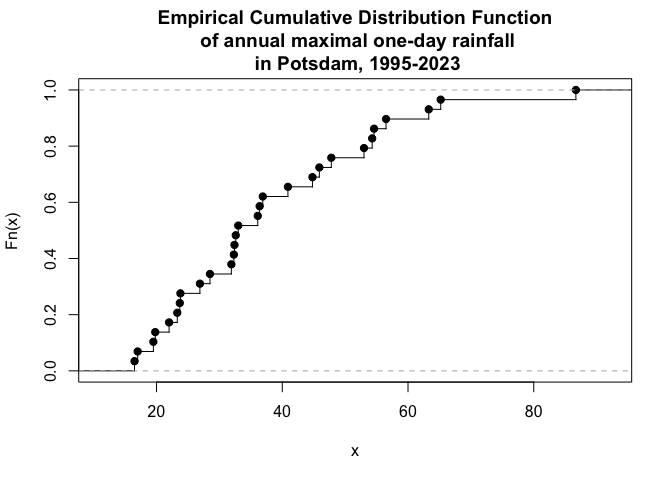
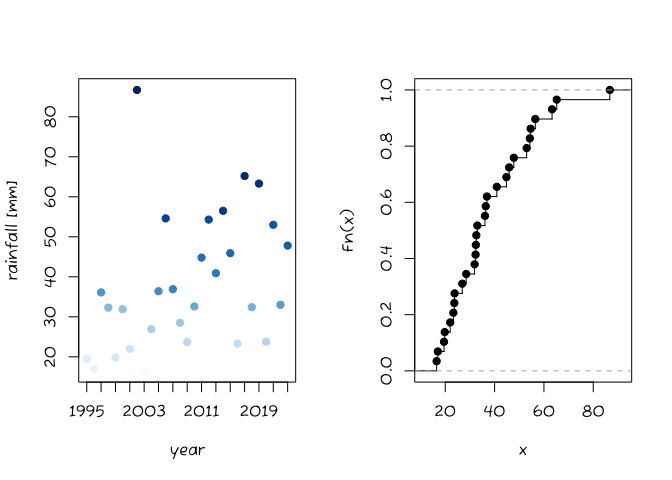
# minor changes again

diff --git a/README.md b/README.md
@@ -13,12 +13,12 @@ availability of weather data in Germany. A few initial efforts are shown
 below.
 
 > This site is not intended to share my code - mostly written in
-> *python*, *mySQL*, and *R* - to operate my weather station, and to
-> save my data on a self-hosted server. At least for the moment.
+> *python*, *R*, (and *mySQL*) - to operate my weather station and to
+> store the data on a self-hosted server. At least for the moment.
 
 ## Data
 
-As of October 13, 2023, the weather and climate data for Germany can be
+As of October 16, 2023, the weather and climate data for Germany can be
 found at the [open data
 server](https://opendata.dwd.de/climate_environment/CDC/) provided by
 [“Deutscher Wetterdienst”](https://www.dwd.de/EN/Home/home_node.html),
@@ -31,7 +31,7 @@ a friend at a lake on a hot summer day in August 2023.
 
 > There exist other *R* packages to handle data from DWD like
 > [“rdwd”](https://bookdown.org/brry/rdwd/). Those are beyond the scope
-> \> of this project.
+> of this project.
 
 ## Installation
 
@@ -77,7 +77,8 @@ leaflet() |>
 
 > The output from the *code chunk* above cannot be presented on Github,
 > since support for *java*-driven applications like *leaflet* is still
-> missing. Come back later to see an update.
+> missing. Come back later to see an update. I reommended to play around
+> with the `address_to_lonlat()`.
 
 Besides the location of interest, we need the locations of all weather
 stations operated and affiliated by DWD to identify relevant stations
@@ -474,9 +475,11 @@ For the given span of years, the total amount of days per year falling
 into each day category can be visualised as follows:
 
 ``` r
-library(sysfonts); library(showtext); library(ggplot2)
-font_add_google("Fuzzy Bubbles")
+library(sysfonts); library(ggplot2)
+library(showtext)
+if(!("Informal" %in% font_families())) font_add_google("Fuzzy Bubbles", "Informal")
 showtext_auto()
+rm(example1)
 
 example2 <- data |>
   mutate(year = lubridate::year(datetime),
@@ -526,6 +529,10 @@ example2 |>
 ```
 
 <img src="man/figures/figures-1.png" style="display: block; margin: auto;" />
+
+``` r
+rm(example2)
+```
 
 > Note, years with missing data cause white space inside the figures.
 
@@ -699,6 +706,7 @@ y <- data |>
 xy <- data.table::merge.data.table(x = x[, -"quality8"], 
                                    y = y[, c("datetime", "temperature", "humidity")], 
                                    by = "datetime")
+rm(x, y)
 ```
 
 Build a plot with two y-axes. Left: *monthly amount of rainfall*; right:
@@ -744,7 +752,7 @@ climograph_data |>
 > to `theme()`, this line is currently not used to style the figures
 > with a fancy font.
 
-## Example *Rare Events* - Diggging into *Extreme Value Theory*
+## Example: *Rare Events* - Diggging into *Extreme Value Theory*
 
 Some days ago, I read on <https://stackoverflow.com/questions/tagged/r>
 about the *Gompertz* distribution and later that day about *extreme
@@ -755,6 +763,7 @@ distribution*](https://en.wikipedia.org/wiki/Gumbel_distribution). Here
 is the plot generating code I came up with.
 
 ``` r
+par(family = "serif")
 # Gumpel, cumulative distribution function (cdf) 
 dgumpel <- function(x, mu, beta) {
   # mu = location; beta = scale 
@@ -790,9 +799,10 @@ invisible(x =
 axis(side = 2L, at = seq(0L, 1L, by = .1), las = 2)
 axis(side = 3L, labels = FALSE); axis(side = 4L, at = seq(0L, 1L, by = .1), labels = FALSE)
 legend(x = "bottomright", 
-       legend = unlist(lapply(X = 1L:nrow(param_combinations), FUN = \(j) 
-                              paste0("F(x, mu=", param_combinations[j, "mu"],
-                                     ", beta=", param_combinations[j, "beta"], ")")
+       legend = unlist(lapply(X = 1L:nrow(param_combinations), 
+                              FUN = \(j) 
+                              bquote("F(x, " * mu *"="*.(param_combinations[j, "mu"]) 
+                                     * "," ~ beta *"="* .(param_combinations[j, "beta"]) * ")")
                               )
                        ),
        col = colours, lwd = 2L, bty = "n")
@@ -824,12 +834,11 @@ We get $29$ records, one for each year in $1995-2023$. You may want to
 copy the data to clipboard.
 
 ``` r
-data <- structure(
-  list(
-    year = c(1995, 1996, 1997, 1998, 1999, 2000, 2001, 2002, 2003, 
+amodr_data <- structure(
+  list(year = c(1995, 1996, 1997, 1998, 1999, 2000, 2001, 2002, 2003, 
              2004, 2005, 2006, 2007, 2008, 2009, 2010, 2011, 2012, 
              2013, 2014, 2015, 2016, 2017, 2018, 2019, 2020, 2021, 2022, 2023), 
-    amodr = c(19.5, 17, 36.1, 32.3, 19.8, 31.9, 22, 
+       amodr = c(19.5, 17, 36.1, 32.3, 19.8, 31.9, 22, 
               86.7, 16.5, 26.9, 36.4, 54.6, 36.9, 28.5, 
               23.7, 32.6, 44.8, 54.3, 40.9, 56.5, 45.9, 
               23.3, 65.2, 32.4, 63.3, 23.8, 53, 33, 47.8)), 
@@ -842,25 +851,44 @@ data <- structure(
 First, we calculate and plot the *empirical cumulative distribution
 function* (ecdf), a step function by its very definition. Second, we use
 `EnvStats::eevd()` to execute a *maximum likelihood estimation* (MLE) of
-the parameters, see the help page for details. We, then, add the
-*estimated cumulative distribution function* to the plot. Finally, we
-extend by $95%$-confidence bands.
+the parameters, see the help page for details. We, then, add a *Gumpel
+cdf* with the *estimates* of $\hat{\mu} = 30.64$ and
+$\hat{\beta} = 12.46$ to the plot. Finally, we extend by $95%$-CI bands,
+$\hat{\mu} \in [25.65, 35.63]$.
 
 ``` r
-# annual maximum one-day rainfall
-plot(x = ecdf(data$amodr), 
-     verticals = TRUE, 
-     main = paste0(
-       "Empirical Cumulative Distribution Function\n of annual maximal one-day rainfall\n in Potsdam, ", min(data$year), "-", max(data$year))
+par(mfrow = c(1L, 2L), family = "Informal") # nrow x ncol 
+
+library(RColorBrewer)
+pal <- colorRampPalette(brewer.pal(10L, "Blues"))
+
+with(data = amodr_data, 
+     expr = {
+       ord = findInterval(amodr, sort(amodr))
+       # annual maximum one-day rainfall
+       plot(x = year, y = amodr, col = pal(length(amodr))[ord],
+            xaxt = "n", ylab = "rainfall [mm]", pch = 19L
+       ) 
+       axis(side = 1, at = seq(from = min(year), to = max(year), by = 2L))
+       # corresponding ecdf plot
+       plot(x = ecdf(amodr), verticals = TRUE, main = "")
+       }
      )
 ```
 
-<img src="man/figures/unnamed-chunk-11-1.png" style="display: block; margin: auto;" />
+<div class="figure" style="text-align: center">
+
+<img src="man/figures/unnamed-chunk-11-1.png" alt="Scatterplot and ecdf of annual maximal one-day rainfall in Potsdam"  />
+<p class="caption">
+Scatterplot and ecdf of annual maximal one-day rainfall in Potsdam
+</p>
+
+</div>
 
 ``` r
 # install.packages("EnvStats")
 library(EnvStats)
-(mle <-  eevd(x = data$amodr, method = "mle", ci = TRUE))
+(mle <-  EnvStats::eevd(x = amodr_data$amodr, method = "mle", ci = TRUE))
 ```
 
     ## 
@@ -874,7 +902,7 @@ library(EnvStats)
     ## 
     ## Estimation Method:               mle
     ## 
-    ## Data:                            data$amodr
+    ## Data:                            amodr_data$amodr
     ## 
     ## Sample Size:                     29
     ## 
@@ -891,51 +919,56 @@ library(EnvStats)
     ##                                  UCL = 35.63013
 
 ``` r
+plot(x = ecdf(amodr_data$amodr), verticals = TRUE, main = "", family = "Fuzzy Bubbles")
+
 curve(expr = dgumpel(x = x,
                      mu = mle$parameters[[1L]],
                      beta = mle$parameters[[2L]]), 
-      col = "blue", 
+      col = "black", lwd = 2L,
       add = TRUE
       )
-```
 
-<img src="man/figures/unnamed-chunk-11-2.png" style="display: block; margin: auto;" />
-
-``` r
-# add CI w.r.t. shape parameter (mu)
+# add CI w.r.t. shape parameter ($\mu$)
 invisible(x = lapply( # prevents cluttered console 
   X = mle[["interval"]][["limits"]], 
   FUN = \(i) curve(expr = dgumpel(x = x, 
                                   mu = i,
                                   beta = mle$parameters[[2L]]), 
+                   col = "black", lty = 2L,
                    add = TRUE, 
-                   col = "blue", 
-                   lty = 2L
                    )
   )
 )
+legend(x = "bottomright", 
+       legend = c(bquote("dgumpel(" * hat(mu) *  "," ~ hat(beta) * ")" ), 
+                  "95-CI bands"), # of" ~ hat(mu)
+       col = "black", lwd = c(2L, 1L), lty = c(1L, 2L)
+       )
 ```
 
-<img src="man/figures/unnamed-chunk-11-3.png" style="display: block; margin: auto;" />
+<img src="man/figures/unnamed-chunk-12-1.png" style="display: block; margin: auto;" />
 
-**I will add all statistical details with a future version.**
+**I will add statistical details with a future version.**
 
 There exist several concepts to visually compare an *empirical
-cumulative distribution function* with it’s theoretical counterpart. In
-the following, we create a so-called *P-P plot* (p $=$ probability):
+cumulative distribution function* to its assumed theoretical
+counterpart. In the following, we create a so-called *P-P plot* (p $=$
+probability):
 
 ``` r
-plot(y = ecdf(amodr_data$amodr)(amodr_data$amodr),
-     x = dgumpel(x = amodr_data$amodr,
-        mu = mle$parameters[[1L]],
-        beta = mle$parameters[[2L]]), 
-     main = "Probability-Probability Plot",
-     xlab = "theoretical", ylab = "empirical", 
+par(family = "Informal")
+with(data = amodr_data, 
+     expr = plot(y = ecdf(amodr)(amodr),
+                 x = dgumpel(x = amodr,
+                 mu = mle$parameters[[1L]],
+                 beta = mle$parameters[[2L]]), 
+                 main = "Probability-Probability Plot",
+                 xlab = "mle estimate", ylab = "empirical")
      )
 abline(a = 0, b = 1)
 ```
 
-<img src="man/figures/unnamed-chunk-12-1.png" style="display: block; margin: auto;" />
+<img src="man/figures/unnamed-chunk-13-1.png" style="display: block; margin: auto;" />
 
 Application/interpretation of *P-P plots* is vague, especially if theory
 is compared to real data.
